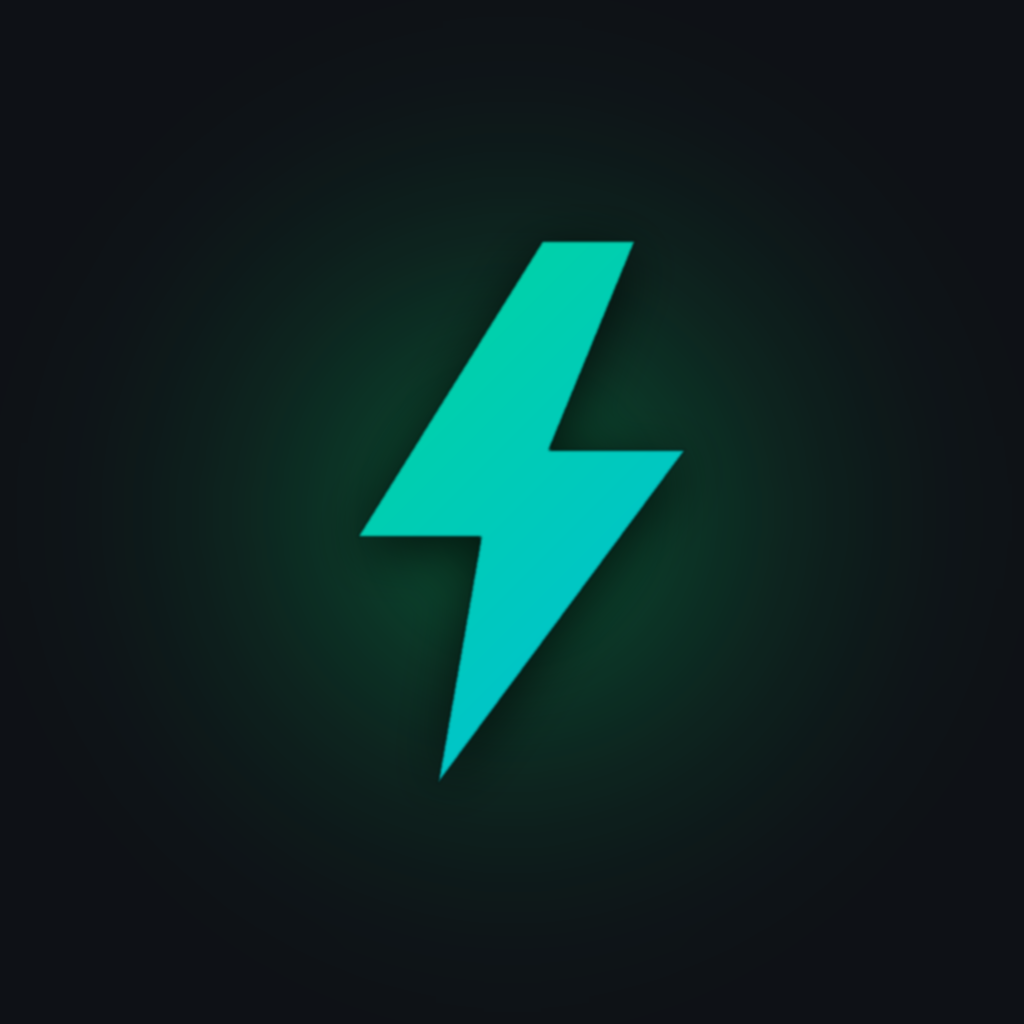
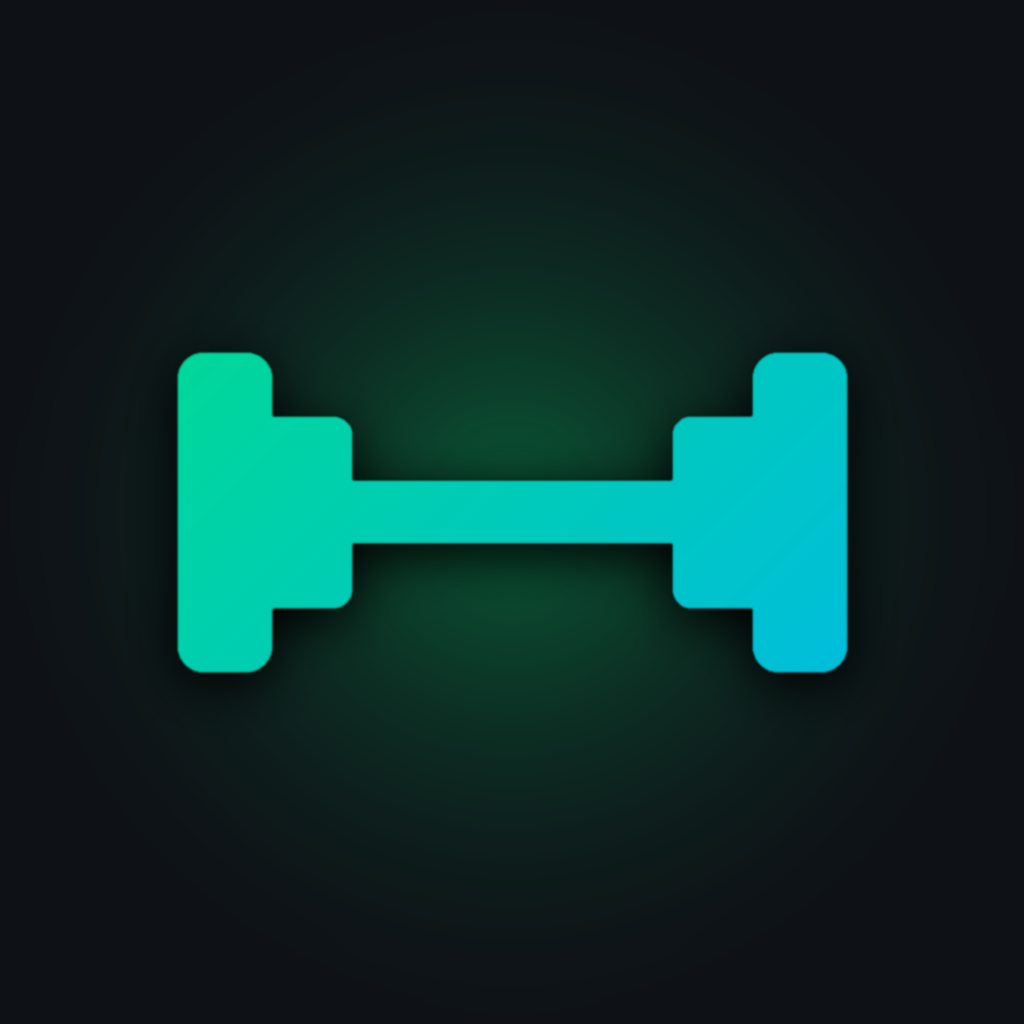
Replace lightning bolt with dumbbell — clearly a fitness app
The bolt looked like an electrician's app icon. Switch to the universal
fitness symbol:
- App icon (assets/branding/icon_1024.png) regenerated as a clean
  stylised dumbbell in green→blue gradient on a charcoal base with the
  same warm green glow.
- In-app _Logo on the login screen now uses Icons.fitness_center
  (Material dumbbell) instead of Icons.bolt_rounded.
- generate_branding.py rewritten with a draw_dumbbell helper (bar +
  inner plates + outer chunky weights, all rounded) for icon, adaptive
  foreground and splash.

Claude-Session: https://claude.ai/code/session_0181YSdMscMowvu6U39dSaEb

Changed region(s): [[0.1562, 0.2188, 0.8438, 0.75]]

diff --git a/fitflow/lib/features/auth/login_screen.dart b/fitflow/lib/features/auth/login_screen.dart
@@ -206,9 +206,9 @@ class _Logo extends StatelessWidget {
               ],
             ),
             child: const Icon(
-              Icons.bolt_rounded,
+              Icons.fitness_center,
               color: Colors.black,
-              size: 56,
+              size: 50,
             ),
           ),
           const SizedBox(height: 14),

diff --git a/fitflow/scripts/generate_branding.py b/fitflow/scripts/generate_branding.py
@@ -3,12 +3,13 @@
 Usage:  python3 scripts/generate_branding.py   (run from the fitflow/ directory)
 Requires Pillow:  python3 -m pip install Pillow
 
-Premium look: dark charcoal base with a vivid green→blue gradient lightning
-bolt, plus a subtle glow ring for depth. Distinct from the previous
-"black bolt over flat gradient" style.
+Premium look: dark charcoal base with a vivid green→blue gradient stylised
+dumbbell mark + a subtle radial glow. Distinct, universally readable as a
+fitness app.
 """
 import math
 import os
+
 from PIL import Image, ImageDraw, ImageFilter
 
 OUT = os.path.join(
@@ -19,17 +20,12 @@ os.makedirs(OUT, exist_ok=True)
 
 GREEN = (0, 230, 118)      # #00E676
 BLUE = (0, 176, 255)       # #00B0FF
-VIOLET = (124, 77, 255)    # #7C4DFF
 CHARCOAL = (14, 17, 22)    # #0E1116
-SURFACE = (23, 28, 36)     # #171C24
-
-# Lightning bolt polygon, normalised to a unit box.
-BOLT = [
-    (0.55, 0.06), (0.25, 0.54), (0.45, 0.54),
-    (0.38, 0.94), (0.78, 0.40), (0.56, 0.40), (0.70, 0.06),
-]
 
 
+# ---------------------------------------------------------------------------
+# Drawing helpers
+# ---------------------------------------------------------------------------
 def diagonal_gradient(size, c1, c2):
     """Smooth diagonal gradient image c1(top-left) -> c2(bottom-right)."""
     img = Image.new("RGB", (size, size))
@@ -58,63 +54,90 @@ def radial_glow(size, center, radius, color, max_alpha):
     return img
 
 
-def bolt_points(size, scale, cx=0.5, cy=0.5):
-    """Place the bolt centred, occupying `scale` of the box."""
-    pts = []
-    for nx, ny in BOLT:
-        x = cx + (nx - 0.5) * scale
-        y = cy + (ny - 0.5) * scale
-        pts.append((x * size, y * size))
-    return pts
+def draw_dumbbell(size, scale=0.7):
+    """Return a mono (L mode) mask of a stylised horizontal dumbbell, centred.
+
+    Layout (unit box, 1.0 = full size):
+        plates:     two rounded rectangles at x=0.13 / x=0.87
+        bar:        thin rectangle connecting them
+        weights:    thicker outer caps for the heavy look
+    """
+    s = size
+    mask = Image.new("L", (s, s), 0)
+    d = ImageDraw.Draw(mask)
+
+    # Normalised metrics, then scale them to `scale` * s, centred on the box.
+    cx, cy = 0.5, 0.5
+
+    def rect(x0, y0, x1, y1, radius=0):
+        # Convert from unit-box around (cx, cy) with `scale` factor → pixels.
+        ux0 = cx + (x0 - 0.5) * scale
+        uy0 = cy + (y0 - 0.5) * scale
+        ux1 = cx + (x1 - 0.5) * scale
+        uy1 = cy + (y1 - 0.5) * scale
+        px = [ux0 * s, uy0 * s, ux1 * s, uy1 * s]
+        if radius > 0:
+            d.rounded_rectangle(px, radius=radius * s, fill=255)
+        else:
+            d.rectangle(px, fill=255)
+
+    # Centre bar (horizontal grip)
+    rect(0.20, 0.46, 0.80, 0.54)
+
+    # Inner plates (slightly bigger than the bar)
+    rect(0.18, 0.38, 0.30, 0.62, radius=0.018)
+    rect(0.70, 0.38, 0.82, 0.62, radius=0.018)
+
+    # Outer plates (the chunky weights)
+    rect(0.08, 0.30, 0.20, 0.70, radius=0.025)
+    rect(0.80, 0.30, 0.92, 0.70, radius=0.025)
+
+    return mask
 
 
+# ---------------------------------------------------------------------------
+# Asset builders
+# ---------------------------------------------------------------------------
 def make_app_icon(size=1024):
-    """Premium icon: charcoal base + green→blue gradient bolt + glow."""
+    """Premium icon: charcoal base + green→blue gradient dumbbell + glow."""
     base = Image.new("RGBA", (size, size), CHARCOAL + (255,))
 
-    # Outer radial glow (green) for depth — looks like the icon is lit.
-    glow = radial_glow(size, (size // 2, size // 2), size * 0.55, GREEN, 90)
+    # Outer radial glow (green) → the icon feels lit from within.
+    glow = radial_glow(size, (size // 2, size // 2), size * 0.55, GREEN, 95)
     glow = glow.filter(ImageFilter.GaussianBlur(size * 0.04))
     base.alpha_composite(glow)
 
-    # The bolt is drawn on its own gradient image, then masked into the icon.
+    # Stylised dumbbell on a gradient body.
     grad = diagonal_gradient(size, GREEN, BLUE).convert("RGBA")
-    mask = Image.new("L", (size, size), 0)
-    ImageDraw.Draw(mask).polygon(bolt_points(size, 0.60), fill=255)
-    # Blur the mask edges very slightly for a softer cut.
-    mask = mask.filter(ImageFilter.GaussianBlur(1.5))
-    bolt = Image.new("RGBA", (size, size), (0, 0, 0, 0))
-    bolt.paste(grad, (0, 0), mask)
+    mask = draw_dumbbell(size, scale=0.78)
+    mask = mask.filter(ImageFilter.GaussianBlur(1.2))
+    body = Image.new("RGBA", (size, size), (0, 0, 0, 0))
+    body.paste(grad, (0, 0), mask)
 
-    # Drop shadow under the bolt.
-    shadow_mask = Image.new("L", (size, size), 0)
-    ImageDraw.Draw(shadow_mask).polygon(
-        [(x, y + size * 0.012) for x, y in bolt_points(size, 0.60)],
-        fill=180,
-    )
+    # Drop shadow underneath the dumbbell.
+    shadow_mask = draw_dumbbell(size, scale=0.78)
     shadow_mask = shadow_mask.filter(ImageFilter.GaussianBlur(size * 0.025))
-    shadow = Image.new("RGBA", (size, size), (0, 0, 0, 0))
+    shadow = Image.new("RGBA", (size, size), (0, 0, 0, 200))
     shadow.putalpha(shadow_mask)
-    base.alpha_composite(shadow)
-    base.alpha_composite(bolt)
+    # Offset shadow slightly downward.
+    base.alpha_composite(shadow, dest=(0, int(size * 0.012)))
 
+    base.alpha_composite(body)
     base.convert("RGB").save(f"{OUT}/icon_1024.png")
 
 
-def make_foreground(size=1024, scale=0.46):
-    """Transparent background, gradient bolt (for Android adaptive icon)."""
+def make_foreground(size=1024, scale=0.62):
+    """Transparent background, gradient dumbbell (Android adaptive icon)."""
     grad = diagonal_gradient(size, GREEN, BLUE).convert("RGBA")
-    mask = Image.new("L", (size, size), 0)
-    ImageDraw.Draw(mask).polygon(bolt_points(size, scale), fill=255)
+    mask = draw_dumbbell(size, scale=scale)
     out = Image.new("RGBA", (size, size), (0, 0, 0, 0))
     out.paste(grad, (0, 0), mask)
     out.save(f"{OUT}/icon_foreground.png")
 
 
-def make_splash(size=1024, scale=0.7):
+def make_splash(size=1024, scale=0.9):
     grad = diagonal_gradient(size, GREEN, BLUE).convert("RGBA")
-    mask = Image.new("L", (size, size), 0)
-    ImageDraw.Draw(mask).polygon(bolt_points(size, scale), fill=255)
+    mask = draw_dumbbell(size, scale=scale)
     out = Image.new("RGBA", (size, size), (0, 0, 0, 0))
     out.paste(grad, (0, 0), mask)
     out.save(f"{OUT}/splash.png")
